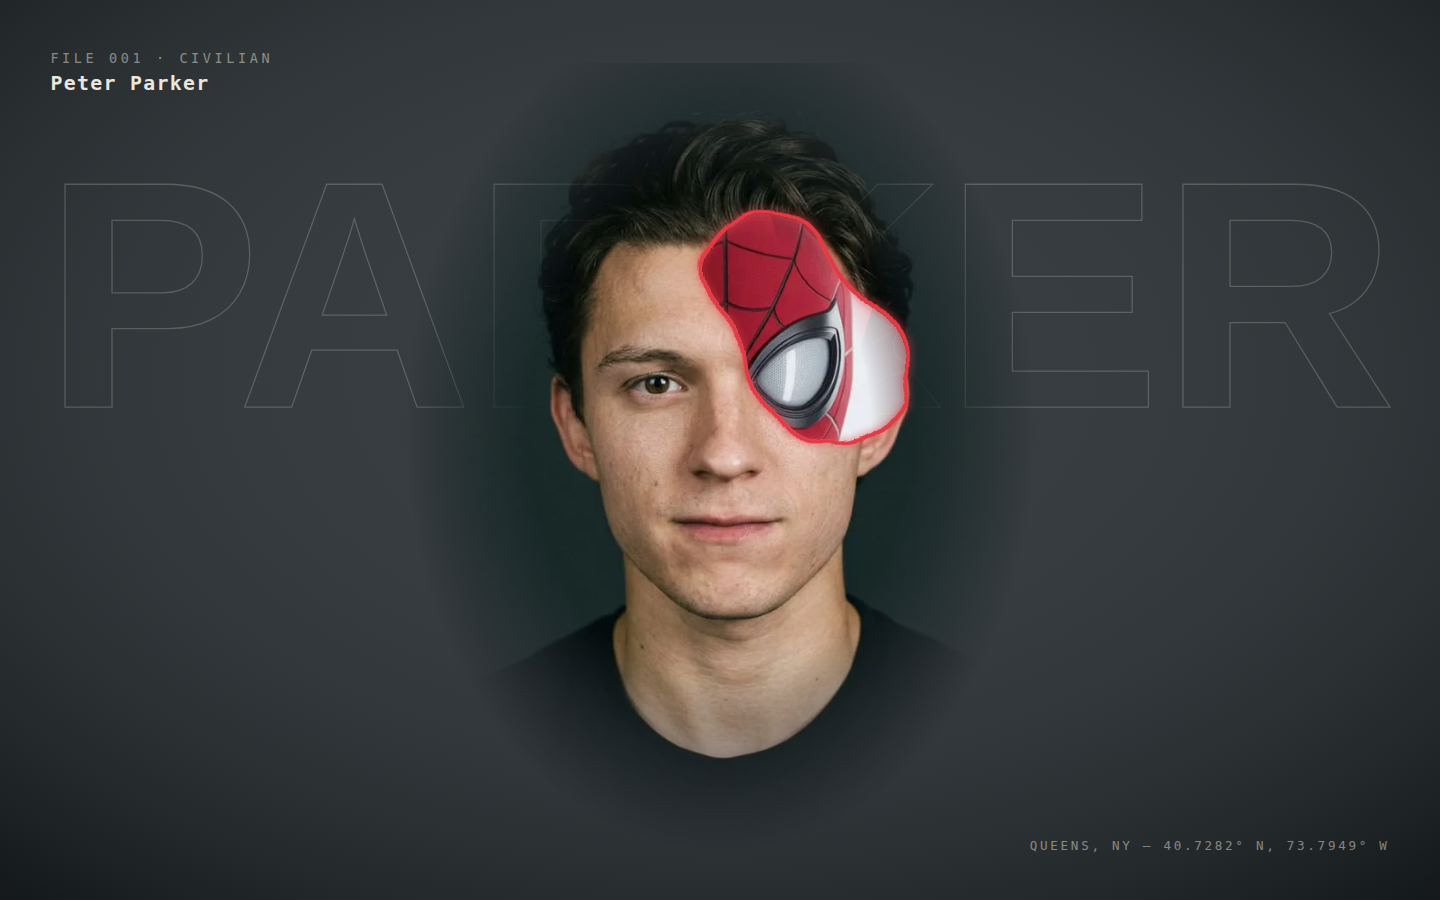
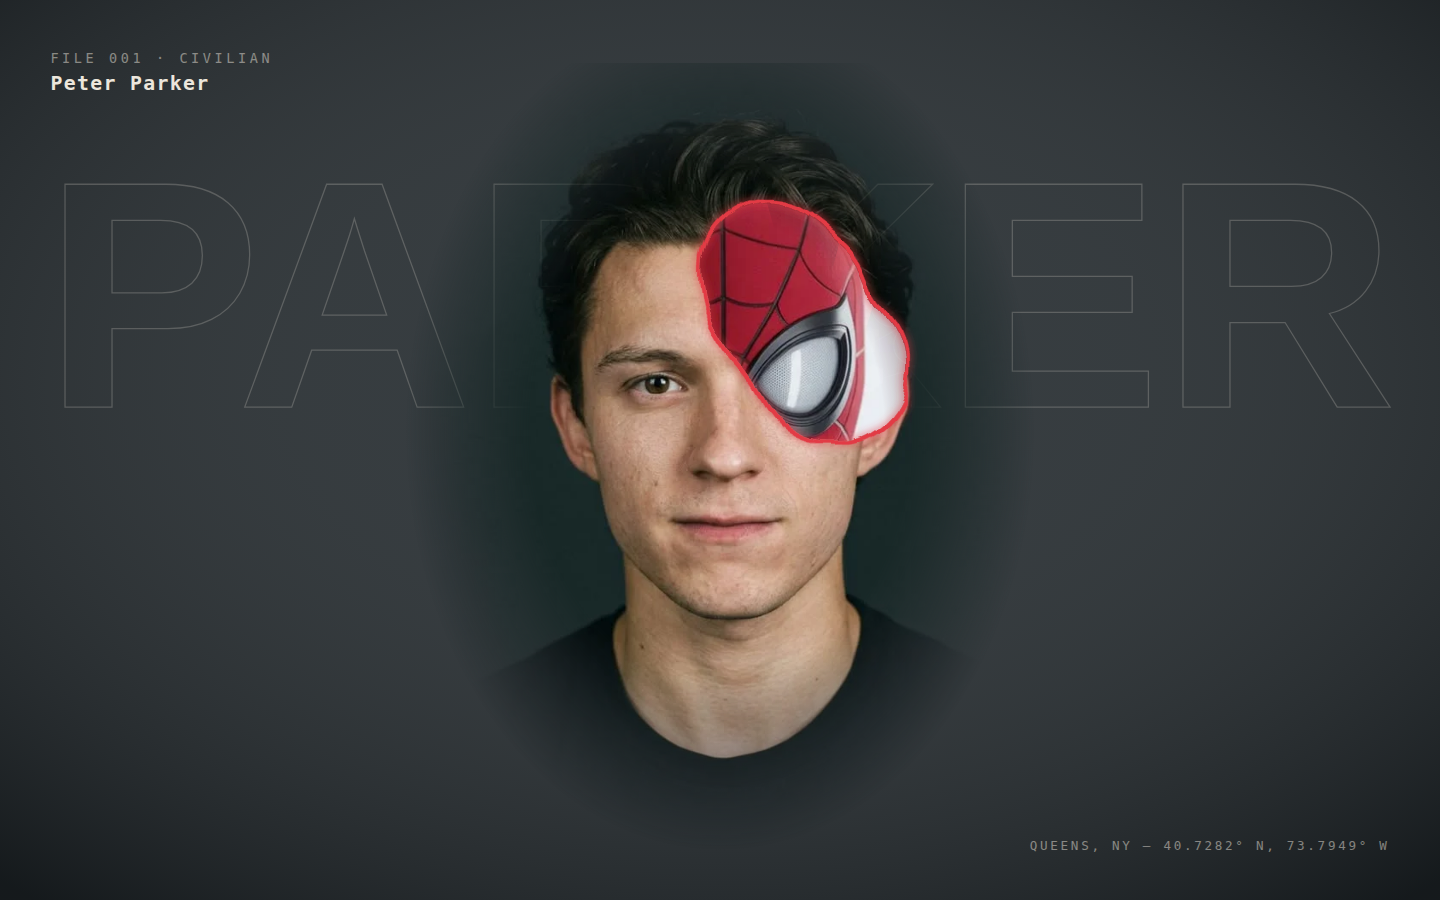
alter-ego-mask-reveal: fix the built-in mask fit
The hero photo was scaled ~25% too small, so the mask sat inside the hairline
and its lenses missed the eyes. Refit from measured landmarks (eyes, chin,
face width in both photos): lenses now sit on the eyes, chin on chin.

Claude-Session: https://claude.ai/code/session_016kag7jUgNmsDRo2qi4NFnB

Changed region(s): [[0.4688, 0.2178, 0.625, 0.4978]]

diff --git a/components/alter-ego-mask-reveal/alter-ego-mask-reveal.tsx b/components/alter-ego-mask-reveal/alter-ego-mask-reveal.tsx
@@ -559,4 +559,4 @@ const BASE_PHOTO =
 // Masked hero, 736 x 736. Its face is smaller in frame, hence REVEAL_FIT.
 const REVEAL_PHOTO =
[1 lines of base64/hex data omitted]
-const REVEAL_FIT = { x: 0.7, y: -2, scale: 0.776 }
+const REVEAL_FIT = { x: 0.3, y: -0.4, scale: 0.864 }
